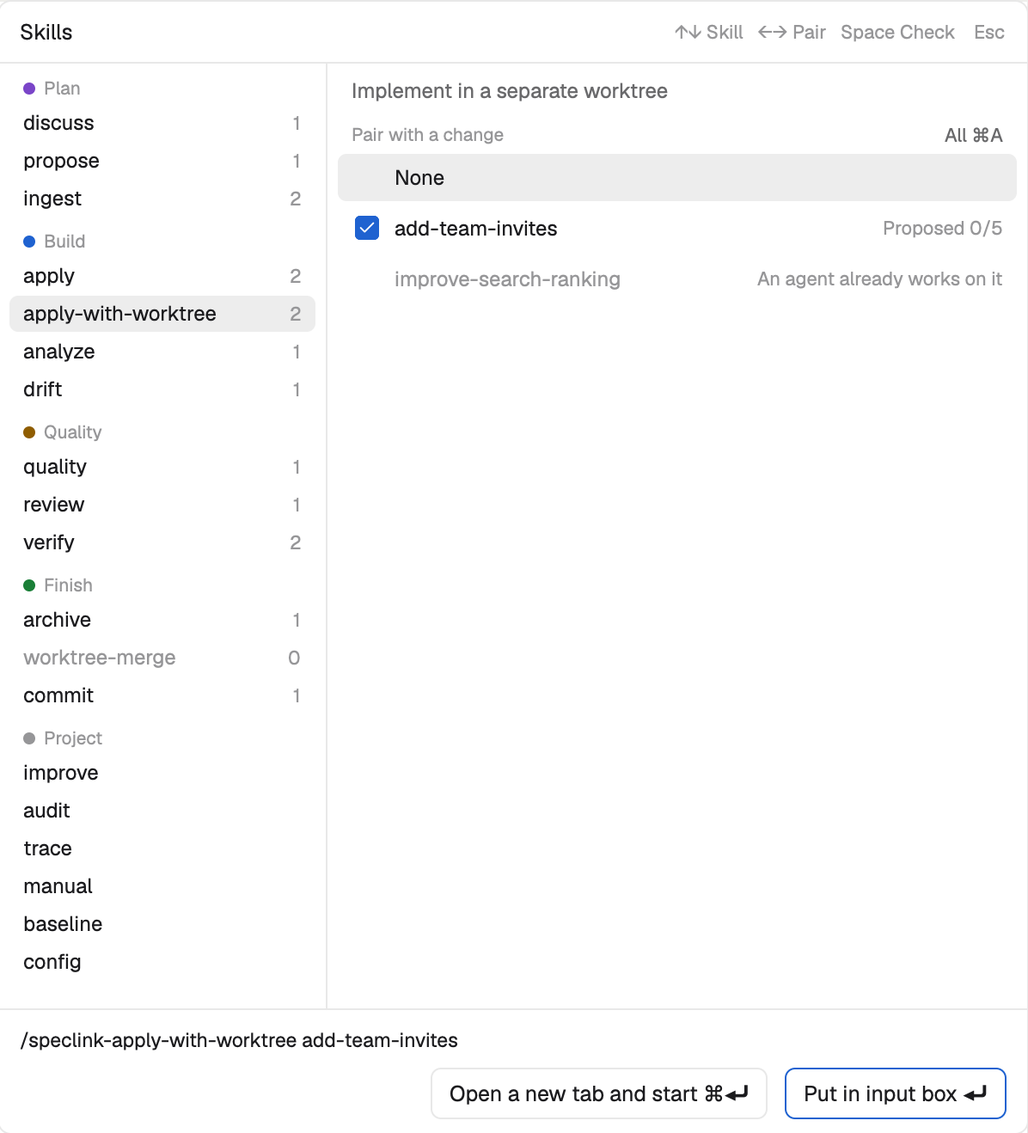
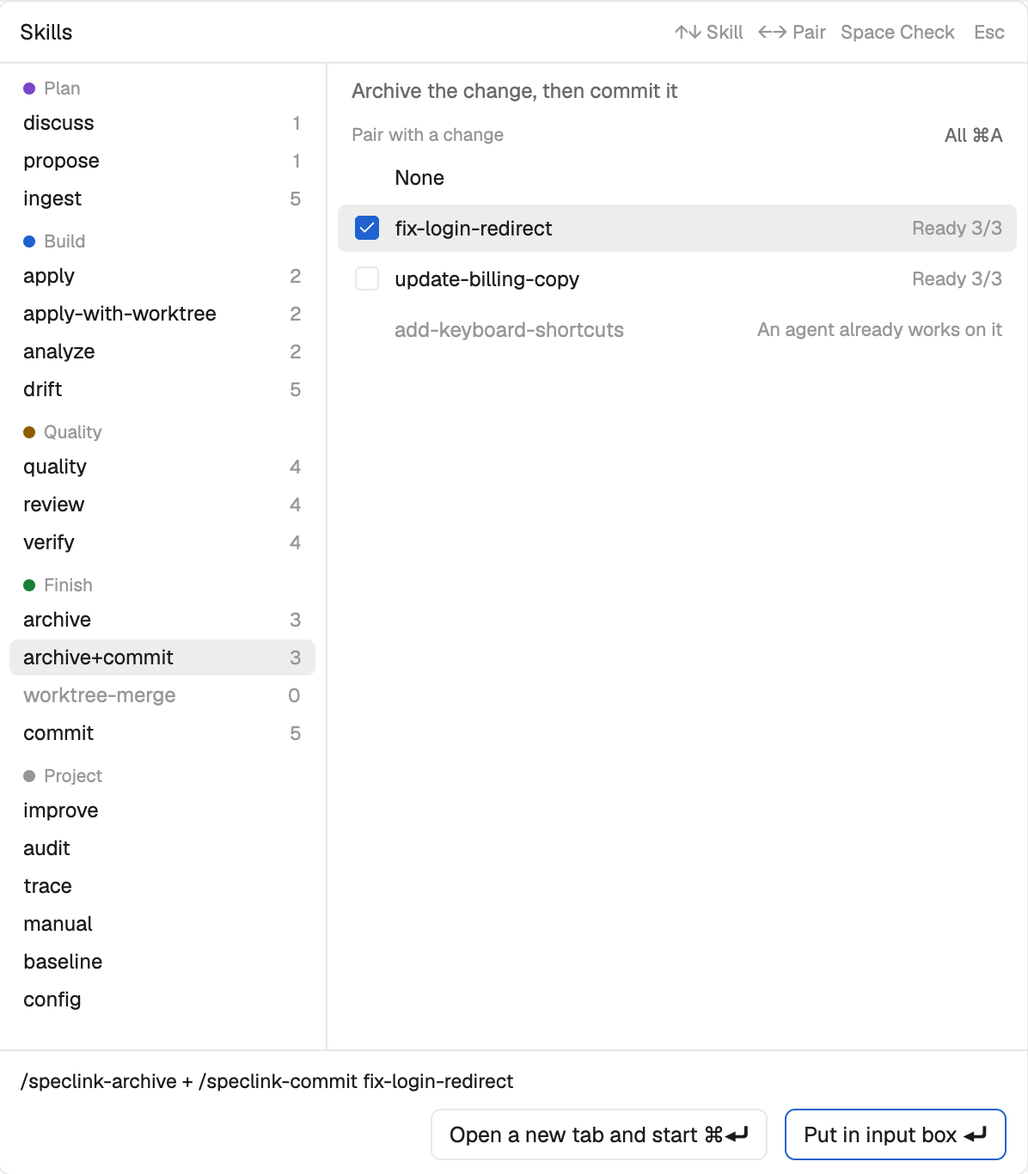
docs(herdr): 重拍截圖，README 補上最新的功能
舊截圖沒有章的圖示、archive+commit 和展開的技能。中英文四張都重拍，畫面用隔離
的 Herdr、示範專案和假 agent，掃過 OCR，也清掉了 PNG 的中繼資料。

README 新增「一個變更怎麼走」和「更新 mod」，側欄和語言拆成自己的小節，並寫明
章的圖示、翻譯的範圍和限制、0.1.13 的需求。也更正過時的說法：「畫面只有繁體
中文」、面板只讀四個指令、更新 mod 只要跑一次 cp，以及英文版裡的中文按鈕名稱。

Claude-Session: https://claude.ai/code/session_01XLdTaEosEH2ZiYjC3WAQ4g

diff --git a/integrations/herdr/README.en.md b/integrations/herdr/README.en.md
@@ -6,6 +6,18 @@ Open a panel in [Herdr](https://herdr.dev) that shows the changes and discussion
 
 ![A Herdr window: the stage badges and the Agents list on the left, and the Speclink panel on the right](../../docs/assets/screenshots/en/herdr-panel.png)
 
+## How a change moves
+
+The panel suggests the next step from the stage and the stamps. Most of the time, you click the one button on the row:
+
+1. **Proposed**: click Start. The new agent opens in the current space. If the project uses the worktree flow, the panel first asks whether to use a worktree or apply directly.
+2. **In progress**: the row shows the agent and the task progress. When only manual tasks are left, the suggestion changes to `worktree-merge` with a worktree, or to `quality` without one.
+3. **Code tasks done, with a worktree**: click `worktree-merge` to merge into the main branch. Without a worktree, skip this step.
+4. **Ready**: click `quality`. While it runs, the icons beside the name are blue. They turn purple when both stations are stamped.
+5. **Both stations stamped**: click `archive+commit` to archive and commit.
+
+To run another skill, click `⋯`.
+
 ## What the panel shows
 
 The panel has two placements. Neither takes the keyboard. In both, the project follows the terminal that has focus, so a switch of space also switches the project.
@@ -15,24 +27,36 @@ The panel has two placements. Neither takes the keyboard. In both, the project f
 
 What the panel contains:
 
-- **Top**: the project name. The line below it says "目前的 space · <branch>" (the current space and its branch).
+- **Top**: the logo and the project name. The line below it says "Current space · <branch>". The Roadmap and Skills buttons are at the right.
 - **Changes**: three permanent cards for proposed, in progress and ready. Each card title has a dot in the stage color and a count. Each row shows the wave, the name, the review and verify stamps, a worktree mark and the task progress. A blocked row is dimmed and names what it waits for.
 - **Discussions**: a discussions card and a promoted card. A promoted discussion that still has unpromoted cuts stays on the discussions card, because its next step is propose.
 - **The agent on this change or discussion**: the row shows the location and status of the agent. Click it to go there. The status looks the same as in the Agents list on the left: a turning arc for working, an empty ring for idle, a solid dot for done, and a pill when it waits for your answer. For a change, the panel matches the `speclink.change` label, then the worktree path, then the `speclink.focus` label that the Claude Code plugin reports. For a discussion, it matches only the `speclink.discussion` label. Start, the skill buttons, the Skills pop-up and the hook below set the labels. For what you type directly in Claude Code, the panel needs the hooks.
-- **Skill buttons**: each row keeps only the suggested next step. `⋯` shows the other skills for this change on the row. One click sends the skill, with the same rules as the suggested button. A row with no other skills has no `⋯`. To open a new tab or use the input box, use the 技能 (Skills) button at the top. A tooltip on the button tells where it goes.
-- **Attach button**: the chat icon beside the name. It adds the name of the change or discussion to the input box in the current tab and does not send it. The button is gray when the current tab has no agent or the agent waits for your answer.
-- **Stage badge**: only in the `speclink` layout. A project row in the Spaces list shows the number of changes in each stage, in the same order and colors as the panel cards: a dot and a number for proposed and in progress, and a green `✓2` for ready. A stage with 0 changes does not show. Move the pointer over the badge to see the stage names. It updates about every 30 seconds.
-- **Agents list**: only in the `speclink` layout. The list at the bottom left groups agents by space, in the same order as the Spaces list. Each space has its own Done, Working and Idle sections, and the title of a folded space shows the count for each status. An agent that waits for your answer goes in Needs you at the top, for any space. An agent with its own tab no longer shows a second time under the agent that started it. A row for an agent that works on a change ends with the stage color and the task progress. A tab with no name shows the change name. The match rules are the same as in the panel. The clock icon menu can still switch to Priority.
-- **Language**: the interface follows the system language: Chinese on a Chinese system, and English on other systems. This applies to the panel on the right, the Skills pop-up and the sidebar on the left. Restart Herdr after you change the system language.
+- **Skill buttons**: each row shows the suggested next step. See "Skills per stage" for how the panel selects it. `⋯` shows the other skills for this row. One click sends the skill, with the same rules as the suggested button. See "Where a skill goes". A row with no other skills has no `⋯`. A tooltip on the button tells where it goes.
 - **Start**: a button on a change row that starts a new agent for this change only, in the current space. See "Start" below.
-- **Skills (技能)**: the button at the top or `⌘⇧N` opens a pop-up where you select a skill and a change or discussion for it. See "Skills pop-up" below.
+- **Skills**: the button at the top or `⌘⇧N` opens a pop-up where you select a skill and a change or discussion for it. Use it to open a new tab, use the input box, or check many changes. See "Skills pop-up" below.
+- **Attach button**: the chat icon beside the name. It adds the name of the change or discussion to the input box in the current tab and does not send it. The button is gray when the current tab has no agent or the agent waits for your answer.
 - **Open in Speclink**: click a change row or a discussion row to open its detail page. Click the wave number at the start of a row, or the Roadmap button at the top, to open the roadmap. Click the logo at the top left to go to the project of this space and show the board. If the project is not initialized or the space is on another machine, the logo only brings up the app.
 
 Each card can collapse. More than 5 rows fold into "N more…". Each row has a copy button.
 
+### The sidebar on the left
+
+Only in the `speclink` layout.
+
+- **Stage badge**: a project row in the Spaces list shows the number of changes in each stage, in the same order and colors as the panel cards: a dot and a number for proposed and in progress, and a green `✓2` for ready. A stage with 0 changes does not show. Move the pointer over the badge to see the stage names. It updates about every 30 seconds.
+- **Agents list**: the list at the bottom left groups agents by space, in the same order as the Spaces list. Each space has its own Done, Working and Idle sections, and the title of a folded space shows the count for each status. An agent that waits for your answer goes in Needs you at the top, for any space. An agent with its own tab no longer shows a second time under the agent that started it. A row for an agent that works on a change ends with the stage color and the task progress. A tab with no name shows the change name. The match rules are the same as in the panel. The icon beside the title opens the sort menu, which can switch to Priority.
+
+### Language
+
+The interface follows the system language: Chinese on a Chinese system, and English on other systems. Restart Herdr after you change the system language.
+
+This applies to the Speclink panel and the Skills pop-up, and to Herdr's own screens: the sidebar on the left, the tab bar, the status bar, the settings page, the Files and Changes panels, and the right-click and new tab menus.
+
+Herdr's own screens do not need clones. All mods share one JS environment, so when the panel loads, each string on screen goes through the table in `i18n.js` first. A string that is not in the table stays in English. New text from a Herdr update starts in English and breaks nothing. File names in the tree and diff lines skip the table, so a folder named `Settings` keeps its name.
+
 ### When the space is not a Speclink project
 
-If the current space is not a Speclink project, the panel shows a hint card with the project folder and an initialize button (初始化). The Roadmap and Skills buttons are not there, because they do not work here yet.
+If the current space is not a Speclink project, the panel shows a hint card with the project folder and an Initialize button. The Roadmap and Skills buttons are not there, because they do not work here yet.
 
 The initialize button opens a new tab and runs `speclink init` in the project folder. The command asks, one question at a time, which agents to generate files for. It writes files only after your answers. To stop, close that tab. After the command completes, the panel shows the change list within 10 seconds.
 
@@ -49,12 +73,12 @@ Only a project that is not initialized shows this card. Other problems, such as 
 | In progress, only manual tasks left, both stations stamped | the same, and the suggestion stays on **apply**, which handles the manual tasks. You do not need to run quality again |
 | Ready | **quality**, review, verify, archive, archive+commit, ingest, drift, commit |
 | Ready, both stations stamped and the stamps hold | the same, but the suggestion changes to **archive+commit** |
-| Any stage, with a worktree | adds worktree-merge and removes archive and archive+commit (merge before you archive). When the change is ready and both stations are stamped, the suggestion is **worktree-merge** |
+| Any stage, with a worktree | adds worktree-merge and removes archive and archive+commit (merge before you archive). When the code tasks are done, stamped or not, the suggestion is **worktree-merge**. Run quality after the merge |
 | Discussion concluded again, change not updated | the suggestion changes to **ingest** |
 | Open discussion | **discuss** |
 | Concluded, or cuts left to promote | **propose --from-discussion**, discuss |
 
-`archive+commit` sends the same command as the Claude Code mod: `/speclink-archive + /speclink-commit <change>`. Claude Code treats only the first slash command as a command. The rest becomes its arguments, so the model commits after the archive. In the skill pop-up it is in the 收尾 (ship) group. You can open only one at a time, because commits at the same time affect each other.
+`archive+commit` sends the same command as the Claude Code mod: `/speclink-archive + /speclink-commit <change>`. Claude Code treats only the first slash command as a command. The rest becomes its arguments, so the model commits after the archive. In the Skills pop-up it is in the Finish group. You can open only one at a time, because commits at the same time affect each other.
 
 ### Stamp icons
 
@@ -101,7 +125,9 @@ The panel tries these in order and stops at the first match:
 
 Each step checks the folder of the agent. Skills for a change with a worktree run in the worktree. archive, worktree-merge and apply-with-worktree run in the main checkout. An agent in another folder does not match. When a change has a worktree with no agent in it, the apply button sends apply-with-worktree, which continues in the existing worktree.
 
-The panel does not send to an agent that works, waits for your answer or shows an error. The button is disabled, and the tooltip on the button gives the reason. After a send, the window moves to that agent.
+The panel does not send to an agent that works, waits for your answer or shows an error. The button is disabled, and the tooltip on the button gives the reason. After a send, the window moves to that agent, and the skills that `⋯` opened close.
+
+The buttons on the row always follow this order. If the change has a stopped agent and you want a new tab, use the Skills button at the top.
 
 Claude Code and GitHub Copilot get `/speclink-<skill>`. Codex gets `$speclink-<skill>`. Only Claude Code has analyze, so the button does not show for other agents. Other agents have no speclink skills, so the panel does not send to them.
 
@@ -111,7 +137,7 @@ Start is different from a skill button. A skill button first tries an existing a
 
 | Situation | What Start does |
 | --- | --- |
-| `worktree` in the workflow config is on, and the change has no worktree yet | Asks first: "用 worktree" (use a worktree, `/speclink-apply-with-worktree <change>`) or "直接 apply" (apply directly, `/speclink-apply <change>`) |
+| `worktree` in the workflow config is on, and the change has no worktree yet | Asks first: "Use a worktree" (`/speclink-apply-with-worktree <change>`) or "Apply directly" (`/speclink-apply <change>`) |
 | The change already has a worktree | Does not ask, and runs `/speclink-apply-with-worktree <change>` to continue |
 | `worktree` is off | Does not ask, and runs `/speclink-apply <change>` |
 
@@ -125,24 +151,24 @@ A change has the Start button only if it is not blocked, has unfinished tasks an
 
 ![The Skills pop-up: skills in five groups on the left, and the changes that can pair with the skill on the right](../../docs/assets/screenshots/en/herdr-skill-picker.png)
 
-Press the "技能" (Skills) button at the top or `⌘⇧N` to open the pop-up. Press it again or press `Esc` to close. This works in all layouts, also when the panel column is closed.
+Press the Skills button at the top or `⌘⇧N` to open the pop-up. Press it again or press `Esc` to close. This works in all layouts, also when the panel column is closed.
 
-- **Left**: all skills in five groups: 規劃 (plan), 實作 (build), 品質 (quality), 收尾 (ship) and 專案 (project). Select one with `↑` `↓` or the mouse. The number at the right is how many changes or discussions the skill can use now. A skill that uses a change shows dim when the number is zero. The project group works on the whole project and has no number.
-- **Right**: the changes or discussions that this skill can use. The rules are the same as for skill buttons. Select one with `←` `→` or the mouse. You can also select none (不指定). Skills that do not use a change (discuss, propose and the project group) have an input box for a topic or a note.
+- **Left**: all skills in five groups: Plan, Build, Quality, Finish and Project. Select one with `↑` `↓` or the mouse. The number at the right is how many changes or discussions the skill can use now. A skill that uses a change shows dim when the number is zero. The project group works on the whole project and has no number.
+- **Right**: the changes or discussions that this skill can use. The rules are the same as for skill buttons. Select one with `←` `→` or the mouse. You can also select None. The pop-up does not open with a change selected. Skills that do not use a change (discuss, propose and the project group) have an input box for a topic or a note.
 - **Bottom**: the command that goes in, or the reason why it cannot be used now.
 
 The bottom has two buttons, one for each result:
 
-- **Put it in the input box (Enter).** The command is pasted into the input box of the agent in the current tab and is not sent. You can type more and press Enter yourself. This also works when the agent is working. It does not work when the agent waits for your answer, because the paste can answer its dialog.
+- **Put in input box (Enter).** The command is pasted into the input box of the agent in the current tab and is not sent. You can type more and press Enter yourself. This also works when the agent is working. It does not work when the agent waits for your answer, because the paste can answer its dialog.
 - **Open a new tab and start (`⌘Enter`).** This works like the `herdr-dispatch` skill: `hc run` opens a new tab in the current space, the tab name is "skill · change", and the view stays on the current tab.
 
-When the skill uses a change, each row has a checkbox, so you can open many tabs at once, one tab for each change. Click the box or press `Space` to check a row. Use `⌘A` or "全選" (all) to check all rows. A click on the row only selects it and does not check it.
+When the skill uses a change, each row has a checkbox, so you can open many tabs at once, one tab for each change. Click the box or press `Space` to check a row. Use `⌘A` or "All" to check all rows. A click on the row only selects it and does not check it.
 
 - No check: both buttons use the selected row.
 - One check: both buttons use the checked row.
-- Two or more checks: the left button changes to "開 N 個分頁並開工" (open N tabs and start). "放到輸入框" (put in the input box) does not work, because the input box takes one command at a time.
+- Two or more checks: the left button changes to "Open N tabs and start". "Put in input box" does not work, because the input box takes one command at a time.
 
-These rows have no checkbox and show the reason: an agent is busy on the change (an agent that finished and stopped does not count, so you can open a new tab for worktree-merge after apply), another change blocks it (apply), an apply in the main folder is not finished, or the project has no worktree flow (apply-with-worktree). If you check two applies that both need the main folder, the bottom line asks you to use apply-with-worktree.
+These rows have no checkbox and show the reason: an agent is busy on the change (an agent that finished and stopped does not count, so you can open a new tab for worktree-merge after apply), another change blocks it (apply), an apply in the main folder is not finished, or the project has no worktree flow (apply-with-worktree). If you check two applies that both need the main folder, the bottom line asks you to use apply-with-worktree. You can check only one row for `archive+commit`.
 
 ### Open in Speclink
 
@@ -152,11 +178,12 @@ The logo sends a `speclink://project` URL. The desktop app goes to the project o
 
 ## Requirements
 
-- Herdr 0.1.12 or later (tested with this version).
-- The `speclink` CLI on PATH, with `unpromotedCuts` in `plan --json`. The panel reads only the `--json` output of `speclink list`, `speclink plan`, `speclink discuss list` and `speclink workflow-config show`.
+- Herdr 0.1.13 or later (tested with this version). The lines that `dock-panel.mjs` edits follow the Herdr version, so the script stops on 0.1.12.
+- The `speclink` CLI on PATH, with `unpromotedCuts` in `plan --json`. The panel reads the `--json` output of `speclink list`, `speclink plan`, `speclink discuss list`, `speclink workflow-config show` and `speclink instructions apply`. The CLI does not give the stamps, so the panel also reads `.meta.yaml` in the change folder.
 - A project with `speclink init` done. If it is not done, the panel gives an initialize button.
 - To open pages in Speclink, or to go to a project with the logo, a desktop app that knows `speclink://` URLs (a version after v0.11.0). Releases up to and including v0.11.0 do not have these URLs, so the logo only brings up the app. A version that you built yourself after 2026-11-03 may not know `speclink://project` yet. In that version the logo brings the app to the front, the project does not change, and the app shows "Can't open this speclink link". The message goes away after you update the app.
-- To dock the panel, Node.js, which runs the script that clones the layout.
+- To dock the panel or use the hooks, Node.js, which runs the script that clones the layout and the hooks.
+- To check whether a stamp is stale, `perl`. macOS includes it.
 
 ## Install
 
@@ -185,7 +212,22 @@ Work from the repo root, with Herdr open:
    node scripts/herdr/dock-panel.mjs
    ```
 
-Use `⌘⇧L` to switch layouts. To update the mod, run `cp` again. Herdr reloads at once.
+4. To let the panel know the commands that you type in Claude Code, add the hooks. See "Track what you type directly".
+
+Use `⌘⇧L` to switch layouts.
+
+### Update the mod
+
+The cloned sidebar mods hold copies of the panel files, so copy them too. Herdr reloads at once. The layout and the column widths do not change:
+
+```bash
+M=integrations/herdr/mods/speclink; H=~/.config/herdr-app/mods
+cp -R $M integrations/herdr/mods/speclink-new $H/
+cp $M/i18n.js $M/model.js $M/shared.js $H/speclink-agents/
+cp $M/i18n.js $H/speclink-spaces/
+```
+
+If `integrations/herdr/spaces-badge/`, `integrations/herdr/agents-list/` or `scripts/herdr/dock-panel.mjs` changed, dock again. See the next section.
 
 Do not install with a symbolic link. Herdr loads the code, but it does not draw the SVG icons behind a link, and a save does not reload the mod.
 
@@ -200,16 +242,18 @@ node scripts/herdr/dock-panel.mjs
 The script does these steps:
 
 1. It switches to `main`.
-2. It renames the old clone to `layouts/speclink.json.old-<time>` and deletes the old `mods/speclink-spaces`, `mods/speclink-agents` and `mods/speclink-chrome`.
-3. It clones the new `spaces`, `agents` and `workspace-chrome` and connects them. If Herdr changed the lines the script edits, the script stops before it changes anything.
+2. It renames the old clone to `layouts/speclink.json.old-<time>` and deletes the old `mods/speclink-spaces`, `mods/speclink-agents`, `mods/speclink-files` and `mods/speclink-changes`.
+3. It clones the new `spaces`, `agents`, `files` and `changes` and connects them. If Herdr changed the lines that the script edits in `spaces` or `agents`, the script stops before it changes anything. If it cannot edit `files` or `changes`, it warns, uses the built-in mod, and continues.
 4. It clones the new `main`, adds the panel, and switches to the new `speclink` layout.
+
+If you edited `keys.json`, a Herdr update does not add new shortcuts, so add them yourself. For example, for terminal search in 0.1.13, add `"cmd-f": "terminal.search"` to the `terminal` section.
 
 After this, the panel column has its default width, and the other column widths and open or closed states are the same as in `main`. The state that each space remembers does not change. If you edited the old clone by hand, your edits are in the `.old` file, and you must move them yourself. You can delete the `.old` file when all is well.
 
 ### Remove
 
 1. Press `⌘⇧L` to switch to `main`.
-2. Delete `~/.config/herdr-app/layouts/speclink.json`, and `speclink`, `speclink-new`, `speclink-spaces`, `speclink-agents` and `speclink-chrome` in `~/.config/herdr-app/mods/`.
+2. Delete `~/.config/herdr-app/layouts/speclink.json`, and `speclink`, `speclink-new`, `speclink-spaces`, `speclink-agents`, `speclink-files` and `speclink-changes` in `~/.config/herdr-app/mods/`.
 3. Remove the additions from `keys.json`.
 
 ### Why a cloned layout
@@ -222,7 +266,7 @@ The conclusion first said that Start opens a new space, on the assumption that i
 
 The Agents list works the same way. The built-in agents mod has no extension point, so the script clones it, adds `integrations/herdr/agents-list/speclink-rows.js` and the panel's `model.js` and `shared.js`, and changes about fifteen lines. The list and the panel then use the same rules to find the change that an agent works on.
 
-The Settings and Add machine rows at the bottom of the sidebar are in `workspace-chrome`, so the script clones it too, only to translate them. The translations for all the clones are in the panel's `i18n.js`.
+The script also clones the Files and Changes panels and edits two or three lines, so file names and diff lines do not get translated. Herdr's other screens do not need clones. See "Language". The translations for all the clones are in the panel's `i18n.js`.
 
 Herdr's own `main` layout cannot dock a mod: `"place": "right"` in `mod.json` has no effect, and `layout.set` on `main` is refused.
 
@@ -234,7 +278,7 @@ Herdr's own `main` layout cannot dock a mod: `"place": "right"` in `mod.json` ha
 - **"Promoted" is approximate**: it uses `status` from `discuss list` and the unpromoted cuts from `plan`.
 - **Codex is checked on paper only**: the command form comes from the speclink docs and skill output. No send to a real Codex was tested.
 - **Opening many tabs can hit a git lock**: the same as starting a whole wave. An agent that hits a lock stops and reports it.
-- **The button and the folder have different names**: the button is "技能" (Skills) and the folder is still `speclink-new`, so `keys.json` does not change.
+- **The button and the folder have different names**: the button is "Skills" and the folder is still `speclink-new`, so `keys.json` does not change.
 - **Pasting into the input box works only on macOS and takes about 0.7 seconds**: Herdr has no command that pastes without Enter, so the panel uses `script` to run a hidden `hc attach`, sends the paste, and leaves. It is one paste, not typing. It does not touch the clipboard or change the terminal size. The attach button shows a turning arc while it pastes and a check mark when it finishes. `script` works differently on other systems, so the paste fails with a notice. In this case, use the button that opens a new tab.
 - **Skill buttons do not check installed skills**: for example, in a project without Codex skill files, the button still sends `$speclink-…`.
 - **Opening pages works only on macOS**: the panel uses `open`. On other systems a notice says that the page cannot open. A project in a space on another machine cannot open, so its rows do nothing on click and there is no Roadmap button. The logo still works, but it only brings up the app on this computer and does not change the project.
@@ -242,10 +286,11 @@ Herdr's own `main` layout cannot dock a mod: `"place": "right"` in `mod.json` ha
 - **A worktree does not show on the left by itself**: the agent's terminal stays in the main folder and only each command goes into the worktree, so Herdr shows no row for the worktree. To open a shell or run tests in the worktree, use Herdr's built-in Open worktree.
 - **A folder that is new to Claude Code asks for trust first**: during that question the terminal is not yet an agent, so the panel does not see it, and the Start button comes back after 15 seconds. A trusted folder does not ask.
 - **Starting a whole wave can hit a git lock**: each agent can commit specs or make a worktree in the main folder. An agent that hits a lock stops and reports it. Click its skill button again.
-- **Herdr's own text is not translated**: Files and Changes in the tab bar, the status bar at the bottom, right-click menus and the settings page stay as they are.
+- **Some Herdr text is not translated**: the command palette, the worktree and add machine dialogs, and the What's new page stay in English. Herdr draws the update notice in the corner natively, so the mod cannot reach it.
+- **The translation of Herdr's own screens uses undocumented behavior**: it assumes that all mods share one JS environment. If Herdr changes this, its screens go back to English and nothing breaks. In the `main` layout, the translation starts after you open the panel once.
+- **A name that matches interface text gets translated**: for example, a tab or space named `Settings`. File names in the tree and diff lines are excluded.
 - **Limits of the Agents list**: the sidebar is narrow, so a row with progress shows no time. A discuss or propose tab shows no progress, because it does not count as work on a change.
 - **The badge needs a machine it can reach**: a machine that cannot be reached shows no badge. The narrow sidebar also shows no badge. If a row does not have enough space, the space name gets shorter, so the arrows and the badge stay visible.
-- **The panel text is Traditional Chinese only**.
 
 ## Development
 
@@ -255,4 +300,4 @@ herdr-app check ~/.config/herdr-app/mods/speclink
 herdr-app check ~/.config/herdr-app/mods/speclink-new
 ```
 
-`model.js` holds the pure logic: data merge, skill table and delivery decisions. The tests run it directly. `main.js` holds the panel view and the Herdr API calls. `skill-picker.js` holds the Skills pop-up view. The rules for the input box and the new tab are in `model.js`. `column-sync.js` makes each space remember the state of the right column. It runs in the invisible floating block that `dock-panel.mjs` adds, because the panel does not redraw while its column is closed. `speclink-new` holds only settings: a mod can set only one overlay, and Herdr does not let a mod import code from another folder, so this folder opens the pop-up view of the `speclink` mod. `scripts/herdr/panel-model.test.mjs` also compares the skill table with `.claude/skills/speclink-*`, so it fails when speclink adds or removes a skill.
+`model.js` holds the pure logic: data merge, skill table, stamp states and delivery decisions. The tests run it directly. `i18n.js` holds the interface text. `shared.js` holds small helpers that the panel and the pop-up share and that use the Herdr API, including the code that reads the stamps. `label-skill.mjs` is the hook that tracks commands. `main.js` holds the panel view and the Herdr API calls. `skill-picker.js` holds the Skills pop-up view. The rules for the input box and the new tab are in `model.js`. `column-sync.js` makes each space remember the state of the right column. It runs in the invisible floating block that `dock-panel.mjs` adds, because the panel does not redraw while its column is closed. `speclink-new` holds only settings: a mod can set only one overlay, and Herdr does not let a mod import code from another folder, so this folder opens the pop-up view of the `speclink` mod. `scripts/herdr/panel-model.test.mjs` also compares the skill table with `.claude/skills/speclink-*`, so it fails when speclink adds or removes a skill.

diff --git a/docs/product-status.md b/docs/product-status.md
@@ -70,7 +70,7 @@ In the wrong mode, the CLI rejects these verbs. It does not switch to the other 
 | Desktop server connections | Available | The Servers page in Settings, device login, access tokens, logout, and the OS Keychain | [Connection flow](../apps/desktop/src-tauri/src/connections.rs)<br>[Servers panel tests](../apps/desktop/src/__tests__/serversPanel.test.tsx) | — | 2026-10-15 |
 | Desktop remote project | Partial | Remote open in the New project dialog: specs only, or with a local checkout; claim from the detail page | [New project dialog](../apps/desktop/src/components/WorkspaceChooser.tsx)<br>[Remote open tests](../apps/desktop/src/__tests__/remoteOpen.test.ts) | You can browse, check tasks, and read and write artifacts. Gaps: a checked task does not report touched files; a claim has no release or takeover verb. | 2026-10-07 |
 | Claude Code plugin (`speclink-skills`) | Partial | `/plugin install speclink-skills --marketplace MomoChenisMe/speclink` | [Plugin tests](../integrations/claude-code/speclink-skills/tests/register.test.tsx)<br>[Skill group tests](../scripts/claude-code/skill-groups.test.mjs) | It uses the early-access plugin API of Claude Code, so a new Claude Code version can break it. Not tested on a real Windows machine yet. | 2026-10-07 |
-| Herdr mod (`speclink`) | Partial | `cp -R integrations/herdr/mods/speclink integrations/herdr/mods/speclink-new ~/.config/herdr-app/mods/` | [Panel logic tests](../scripts/herdr/panel-model.test.mjs)<br>[Install guide](../integrations/herdr/README.en.md) | The docked layout and the sidebar lists are clones of Herdr's built-in layout and mods, so dock again after a Herdr update. Pasting into the input box and opening pages work only on macOS. Not tested with Codex. | 2026-11-04 |
+| Herdr mod (`speclink`) | Partial | `cp -R integrations/herdr/mods/speclink integrations/herdr/mods/speclink-new ~/.config/herdr-app/mods/` | [Panel logic tests](../scripts/herdr/panel-model.test.mjs)<br>[Install guide](../integrations/herdr/README.en.md) | The docked layout, the sidebar lists, and the Files and Changes panels are clones of Herdr's built-in layout and mods, so dock again after a Herdr update. The translation of Herdr's own screens uses undocumented behavior, so those screens go back to English if Herdr changes it. Pasting into the input box and opening pages work only on macOS. Not tested with Codex. | 2026-11-04 |
 | MCP and agent tool packages | Planned | No entry point | [Direction and next steps](roadmap.md) | See "Agent tool integration" in the roadmap. | 2026-10-07 |
 | SSO, runtime plugins, and multi-node mode | Planned | No entry point | [Direction and next steps](roadmap.md) | See "System integration" in the roadmap. | 2026-10-07 |
 

diff --git a/docs/product-status.zh-TW.md b/docs/product-status.zh-TW.md
@@ -70,7 +70,7 @@
 | 桌面 Server 連線 | 可用 | 設定的「伺服器」頁、device 登入、存取金鑰、登出與 OS Keychain | [連線流程](../apps/desktop/src-tauri/src/connections.rs)<br>[Servers 面板測試](../apps/desktop/src/__tests__/serversPanel.test.tsx) | — | 2026-10-15 |
 | 桌面遠端專案 | 部分可用 | 「新增專案」對話框的遠端開啟：只看規格，或綁本機 checkout；詳情頁可認領 | [新增專案對話框](../apps/desktop/src/components/WorkspaceChooser.tsx)<br>[遠端開啟測試](../apps/desktop/src/__tests__/remoteOpen.test.ts) | 可瀏覽、勾任務、讀寫 artifact。缺口：勾任務不回報 touched files；認領沒有釋放或接手的動詞。 | 2026-10-07 |
 | Claude Code 外掛（`speclink-skills`） | 部分可用 | `/plugin install speclink-skills --marketplace MomoChenisMe/speclink` | [外掛測試](../integrations/claude-code/speclink-skills/tests/register.test.tsx)<br>[技能分組測試](../scripts/claude-code/skill-groups.test.mjs) | 建立在 Claude Code 的 early-access 外掛介面上，Claude Code 改版時可能要跟著更新。Windows 尚未實機測試。 | 2026-10-07 |
-| Herdr mod（`speclink`） | 部分可用 | `cp -R integrations/herdr/mods/speclink integrations/herdr/mods/speclink-new ~/.config/herdr-app/mods/` | [面板邏輯測試](../scripts/herdr/panel-model.test.mjs)<br>[安裝說明](../integrations/herdr/README.md) | 停靠的版面和側欄清單是 Herdr 內建版面與 mod 的複製版，Herdr 更新後要重做停靠。貼進輸入框和開頁面只有 macOS。沒有用 Codex 測試過。 | 2026-11-04 |
+| Herdr mod（`speclink`） | 部分可用 | `cp -R integrations/herdr/mods/speclink integrations/herdr/mods/speclink-new ~/.config/herdr-app/mods/` | [面板邏輯測試](../scripts/herdr/panel-model.test.mjs)<br>[安裝說明](../integrations/herdr/README.md) | 停靠的版面、側欄清單、檔案和變更面板是 Herdr 內建版面與 mod 的複製版，Herdr 更新後要重做停靠。內建畫面的翻譯靠文件沒寫的行為，Herdr 改掉後會回到英文。貼進輸入框和開頁面只有 macOS。沒有用 Codex 測試過。 | 2026-11-04 |
 | MCP 與 Agent 工具套件 | 規劃中 | 沒有入口 | [方向與下一步](roadmap.zh-TW.md) | 見路線圖的「Agent 工具整合」。 | 2026-10-07 |
 | SSO、runtime plugin 與多節點 | 規劃中 | 沒有入口 | [方向與下一步](roadmap.zh-TW.md) | 見路線圖的「系統整合」。 | 2026-10-07 |
 

diff --git a/README.md b/README.md
@@ -170,7 +170,7 @@ For requirements, settings, and known limits, see [speclink-skills](integrations
 
 ### Herdr mod (optional)
 
-`speclink` adds a panel to [Herdr](https://herdr.dev), next to your terminals. The panel lists the changes and discussions of the current project, sends a skill to the right agent, and starts new agents. The sidebar shows how many changes each project has in each stage, and it groups the agents by space. The text follows your system language.
+`speclink` adds a panel to [Herdr](https://herdr.dev), next to your terminals. The panel lists the changes and discussions of the current project and shows the review and verify stamps. It suggests the next skill, sends the skill to the right agent, and starts new agents. The sidebar shows how many changes each project has in each stage, and it groups the agents by space. The text follows your system language, also on Herdr's own screens such as the settings page and the menus.
 
 Keep Herdr open and run these lines in a clone of this repo:
 

diff --git a/README.zh-TW.md b/README.zh-TW.md
@@ -170,7 +170,7 @@ CLI 與桌面 app 都想裝？桌面 app 可能換掉你的 CLI，先看 [Local 
 
 ### Herdr mod（選用）
 
-`speclink` 在 [Herdr](https://herdr.dev) 的終端機旁邊加一個面板，列出目前專案的變更與討論，可以把技能交給對的 agent，也可以開新的 agent。左邊側欄會顯示每個專案在各階段有幾個變更，並依 space 整理 agent。介面文字跟隨系統語言。
+`speclink` 在 [Herdr](https://herdr.dev) 的終端機旁邊加一個面板，列出目前專案的變更與討論，並顯示 review 和 verify 的章。它會建議下一步，把技能交給對的 agent，也可以開新的 agent。左邊側欄會顯示每個專案在各階段有幾個變更，並依 space 整理 agent。介面文字跟隨系統語言，Herdr 內建的設定頁和選單也一樣。
 
 讓 Herdr 開著，在這個 repo 的 clone 裡執行：
 
